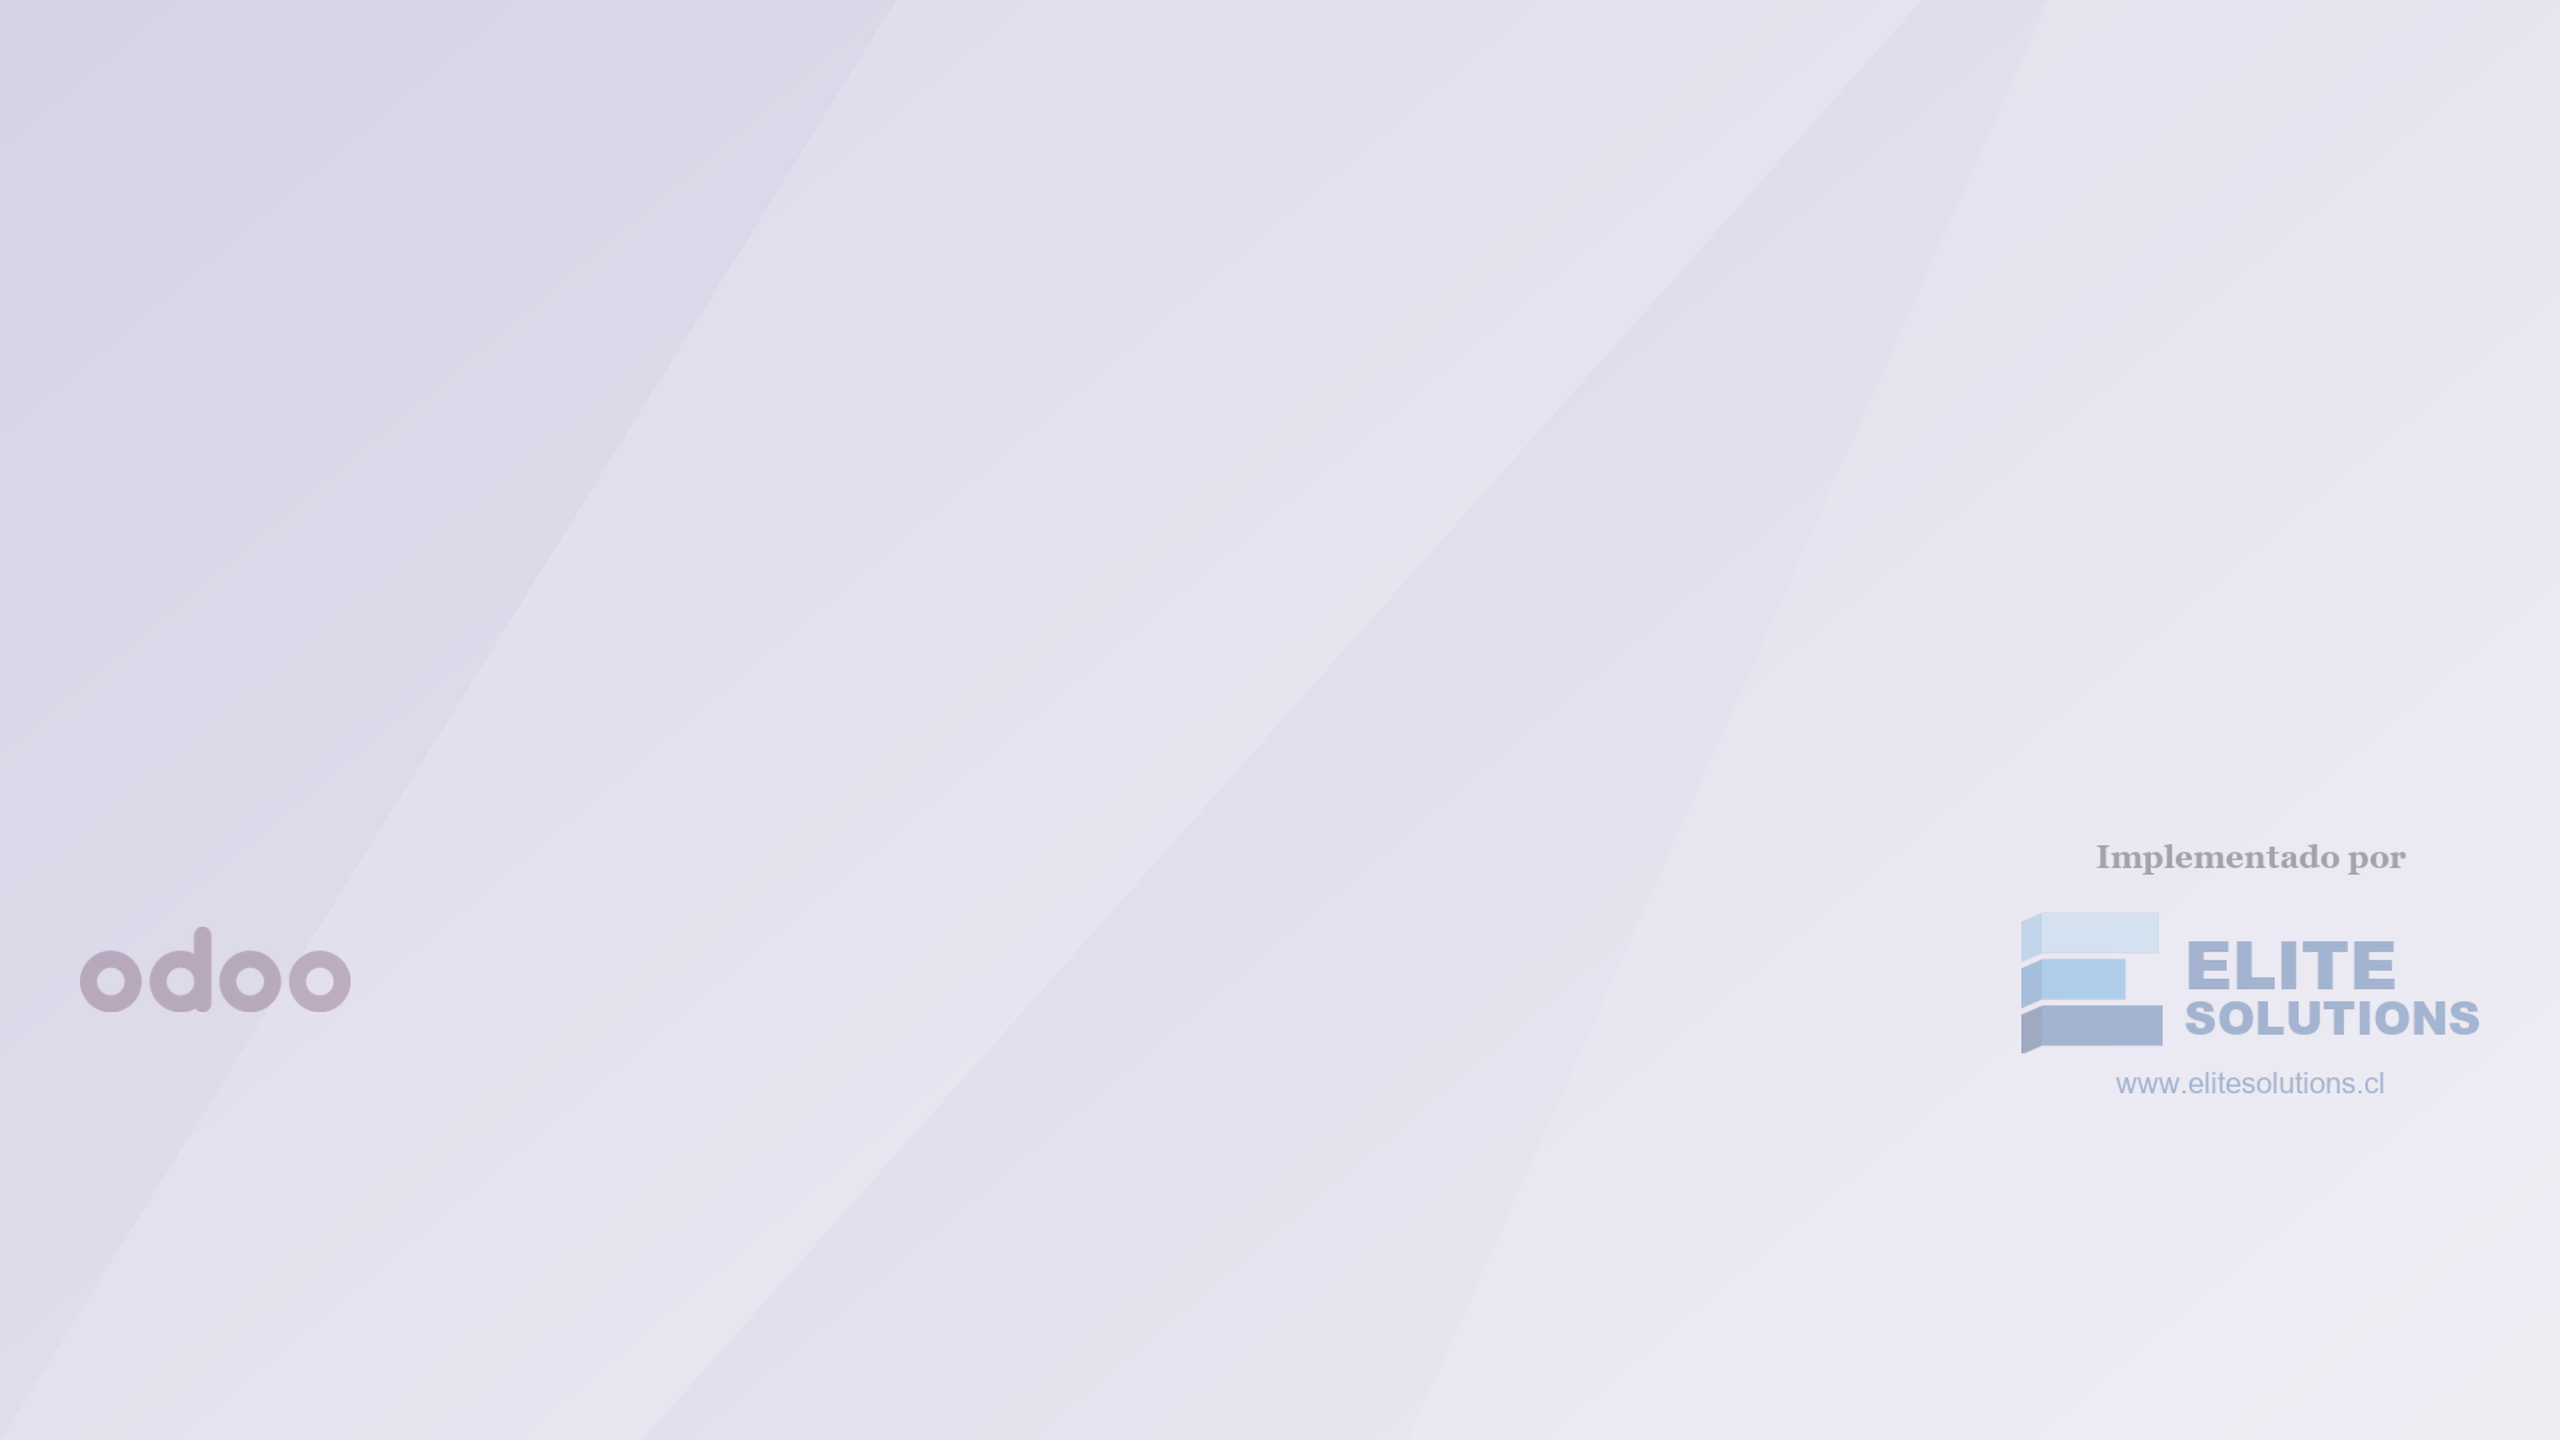
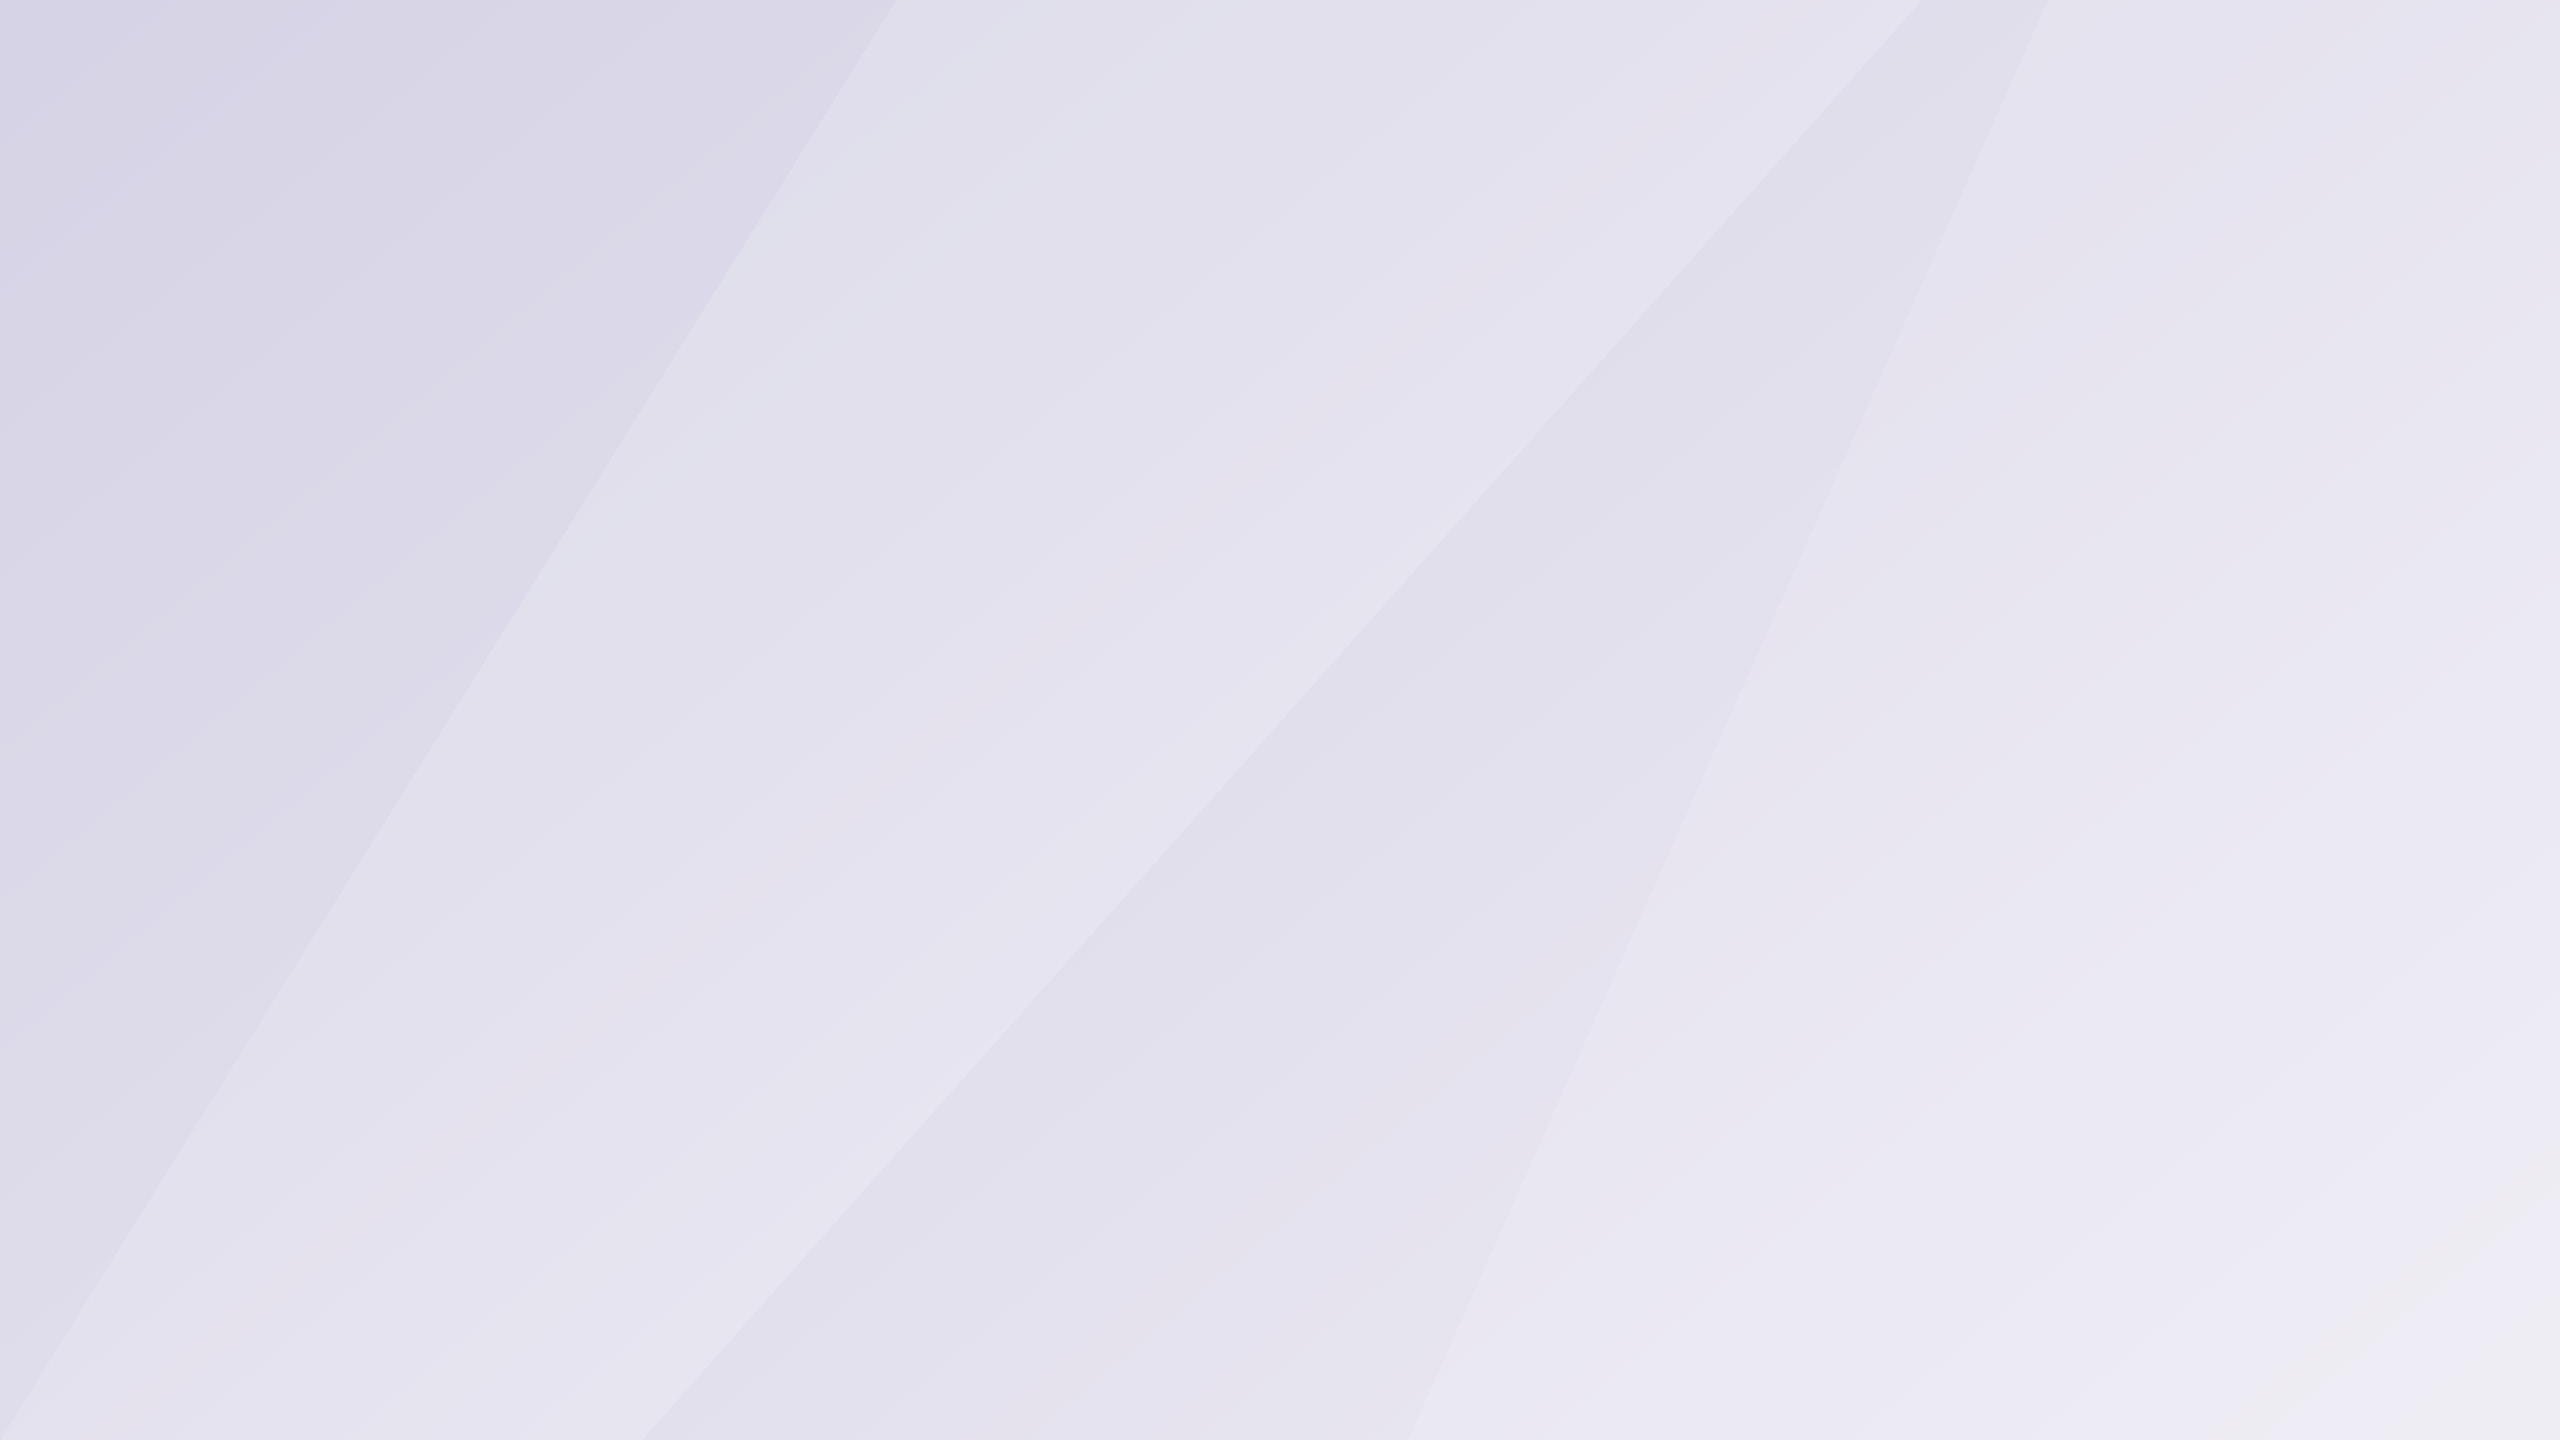
feat: marca Elite como enlace a /implementacion-odoo (1.1.0)

diff --git a/static/src/scss/home_background.scss b/static/src/scss/home_background.scss
@@ -4,3 +4,41 @@
 .o_web_client.o_home_menu_background {
     --homeMenu-bg-image: url("/elitesolutions_home_background/static/img/fondo_home.png");
 }
+
+// Marcas fijas en las esquinas (no dependen del recorte de la imagen en monitores anchos).
+.o_home_menu {
+    .o_es_home_credit,
+    .o_es_home_odoo {
+        position: fixed;
+        bottom: 5vh;
+        z-index: 1;
+
+        img {
+            width: 100%;
+            display: block;
+        }
+    }
+
+    .o_es_home_credit {
+        right: 3vw;
+        width: clamp(200px, 17vw, 340px);
+        text-decoration: none;
+        transition: transform .15s ease;
+
+        &:hover {
+            transform: scale(1.04);
+        }
+    }
+
+    .o_es_home_odoo {
+        left: 3vw;
+        width: clamp(110px, 9vw, 190px);
+        pointer-events: none;
+    }
+}
+
+@media (max-width: 767.98px) {
+    .o_home_menu .o_es_home_odoo {
+        display: none;
+    }
+}

diff --git a/__manifest__.py b/__manifest__.py
@@ -1,13 +1,14 @@
 # -*- coding: utf-8 -*-
 {
     'name': 'EliteSolutions - Fondo del Menú de Aplicaciones',
-    'version': '19.0.1.0.0',
+    'version': '19.0.1.1.0',
     'category': 'Hidden',
     'summary': 'Fondo del menú de aplicaciones de Odoo Enterprise con la marca "Implementado por EliteSolutions", sin necesidad de Odoo Studio',
     'description': """
         Reemplaza el fondo del menú de aplicaciones (home menu) de Odoo Enterprise
-        por una imagen discreta con marcas de agua de Odoo y de EliteSolutions
-        ("Implementado por").
+        por una imagen limpia y agrega las marcas "Odoo" y "Implementado por
+        EliteSolutions" en las esquinas. La marca de EliteSolutions es un enlace
+        (www.elitesolutions.cl) que abre https://www.elitesolutions.cl/implementacion-odoo.
 
         En Odoo Enterprise el fondo personalizado solo se puede cambiar con Odoo
         Studio. Este módulo lo hace sin Studio: solo redefine la variable CSS
@@ -24,6 +25,7 @@
     'assets': {
         'web.assets_backend': [
             'elitesolutions_home_background/static/src/scss/home_background.scss',
+            'elitesolutions_home_background/static/src/home_menu/home_menu.xml',
         ],
     },
     'images': ['static/description/banner.png'],

diff --git a/AGENTS.md b/AGENTS.md
@@ -28,3 +28,4 @@ translúcidas). Para cambiarla: regenerar y reemplazar el archivo (subir versió
 | Fecha | IA | Sección modificada | Por qué |
 |-------|----|--------------------|---------|
 | 2026-11-05 | Claude | Todo | Creación: Mario pidió un módulo chico, no privado, para clientes SH sin Studio (HDS, Santa Cristina, H2S) |
+| 2026-11-05 | Claude | Imágenes, Cómo funciona | v1.1.0: la marca Elite pasa a ser un enlace real (HTML sobre el home menu) en vez de ir horneada en el fondo; Mario pidió que se vea www.elitesolutions.cl y lleve a /implementacion-odoo |

diff --git a/README.md b/README.md
@@ -6,7 +6,7 @@ discreta con marcas de agua de Odoo y "Implementado por EliteSolutions", **sin O
 - Depende de `web_enterprise`. No agrega modelos, campos ni permisos.
 - Redefine la variable CSS `--homeMenu-bg-image` (la misma que usa Odoo para su fondo).
 - Desinstalar el módulo devuelve el fondo original.
-- Imagen: `static/img/fondo_home.png` (2560x1440). Se genera con
+- Imágenes en `static/img/` (fondo limpio + marcas). La marca Elite es un enlace a /implementacion-odoo. Se genera con
   `elitesolutions/meta/fondo-home/generar_fondo_home.py`.
 
 ## Instalación
